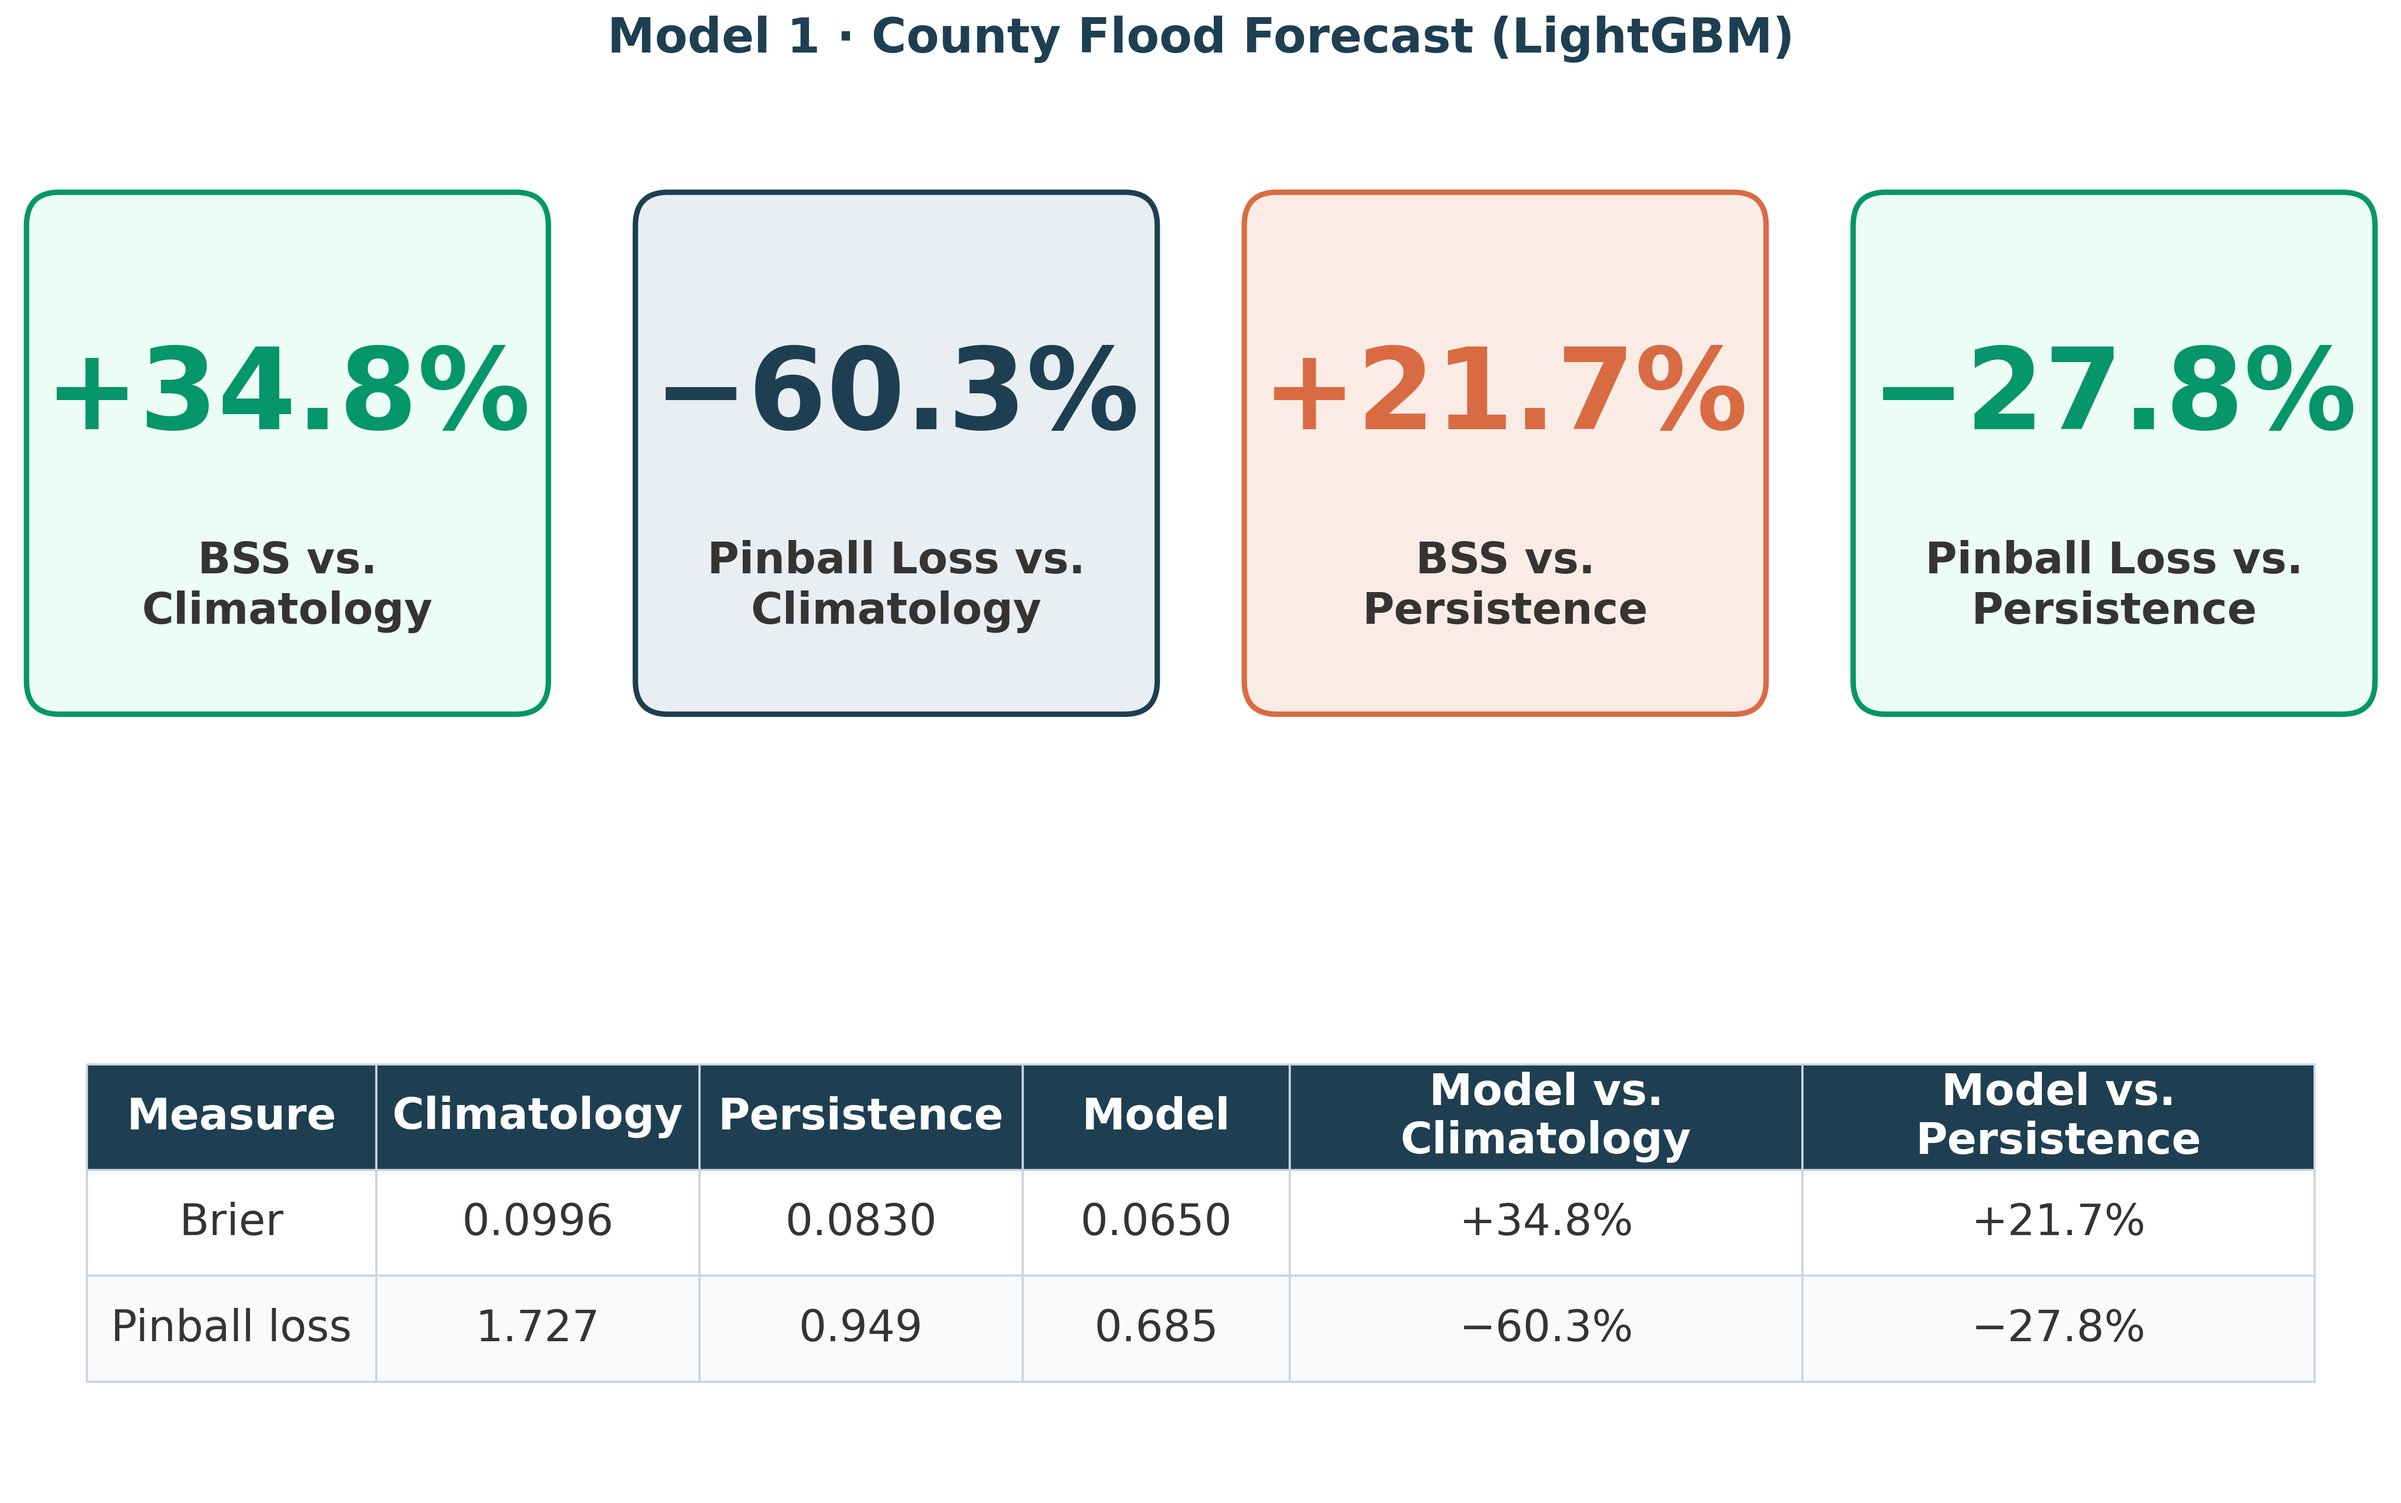
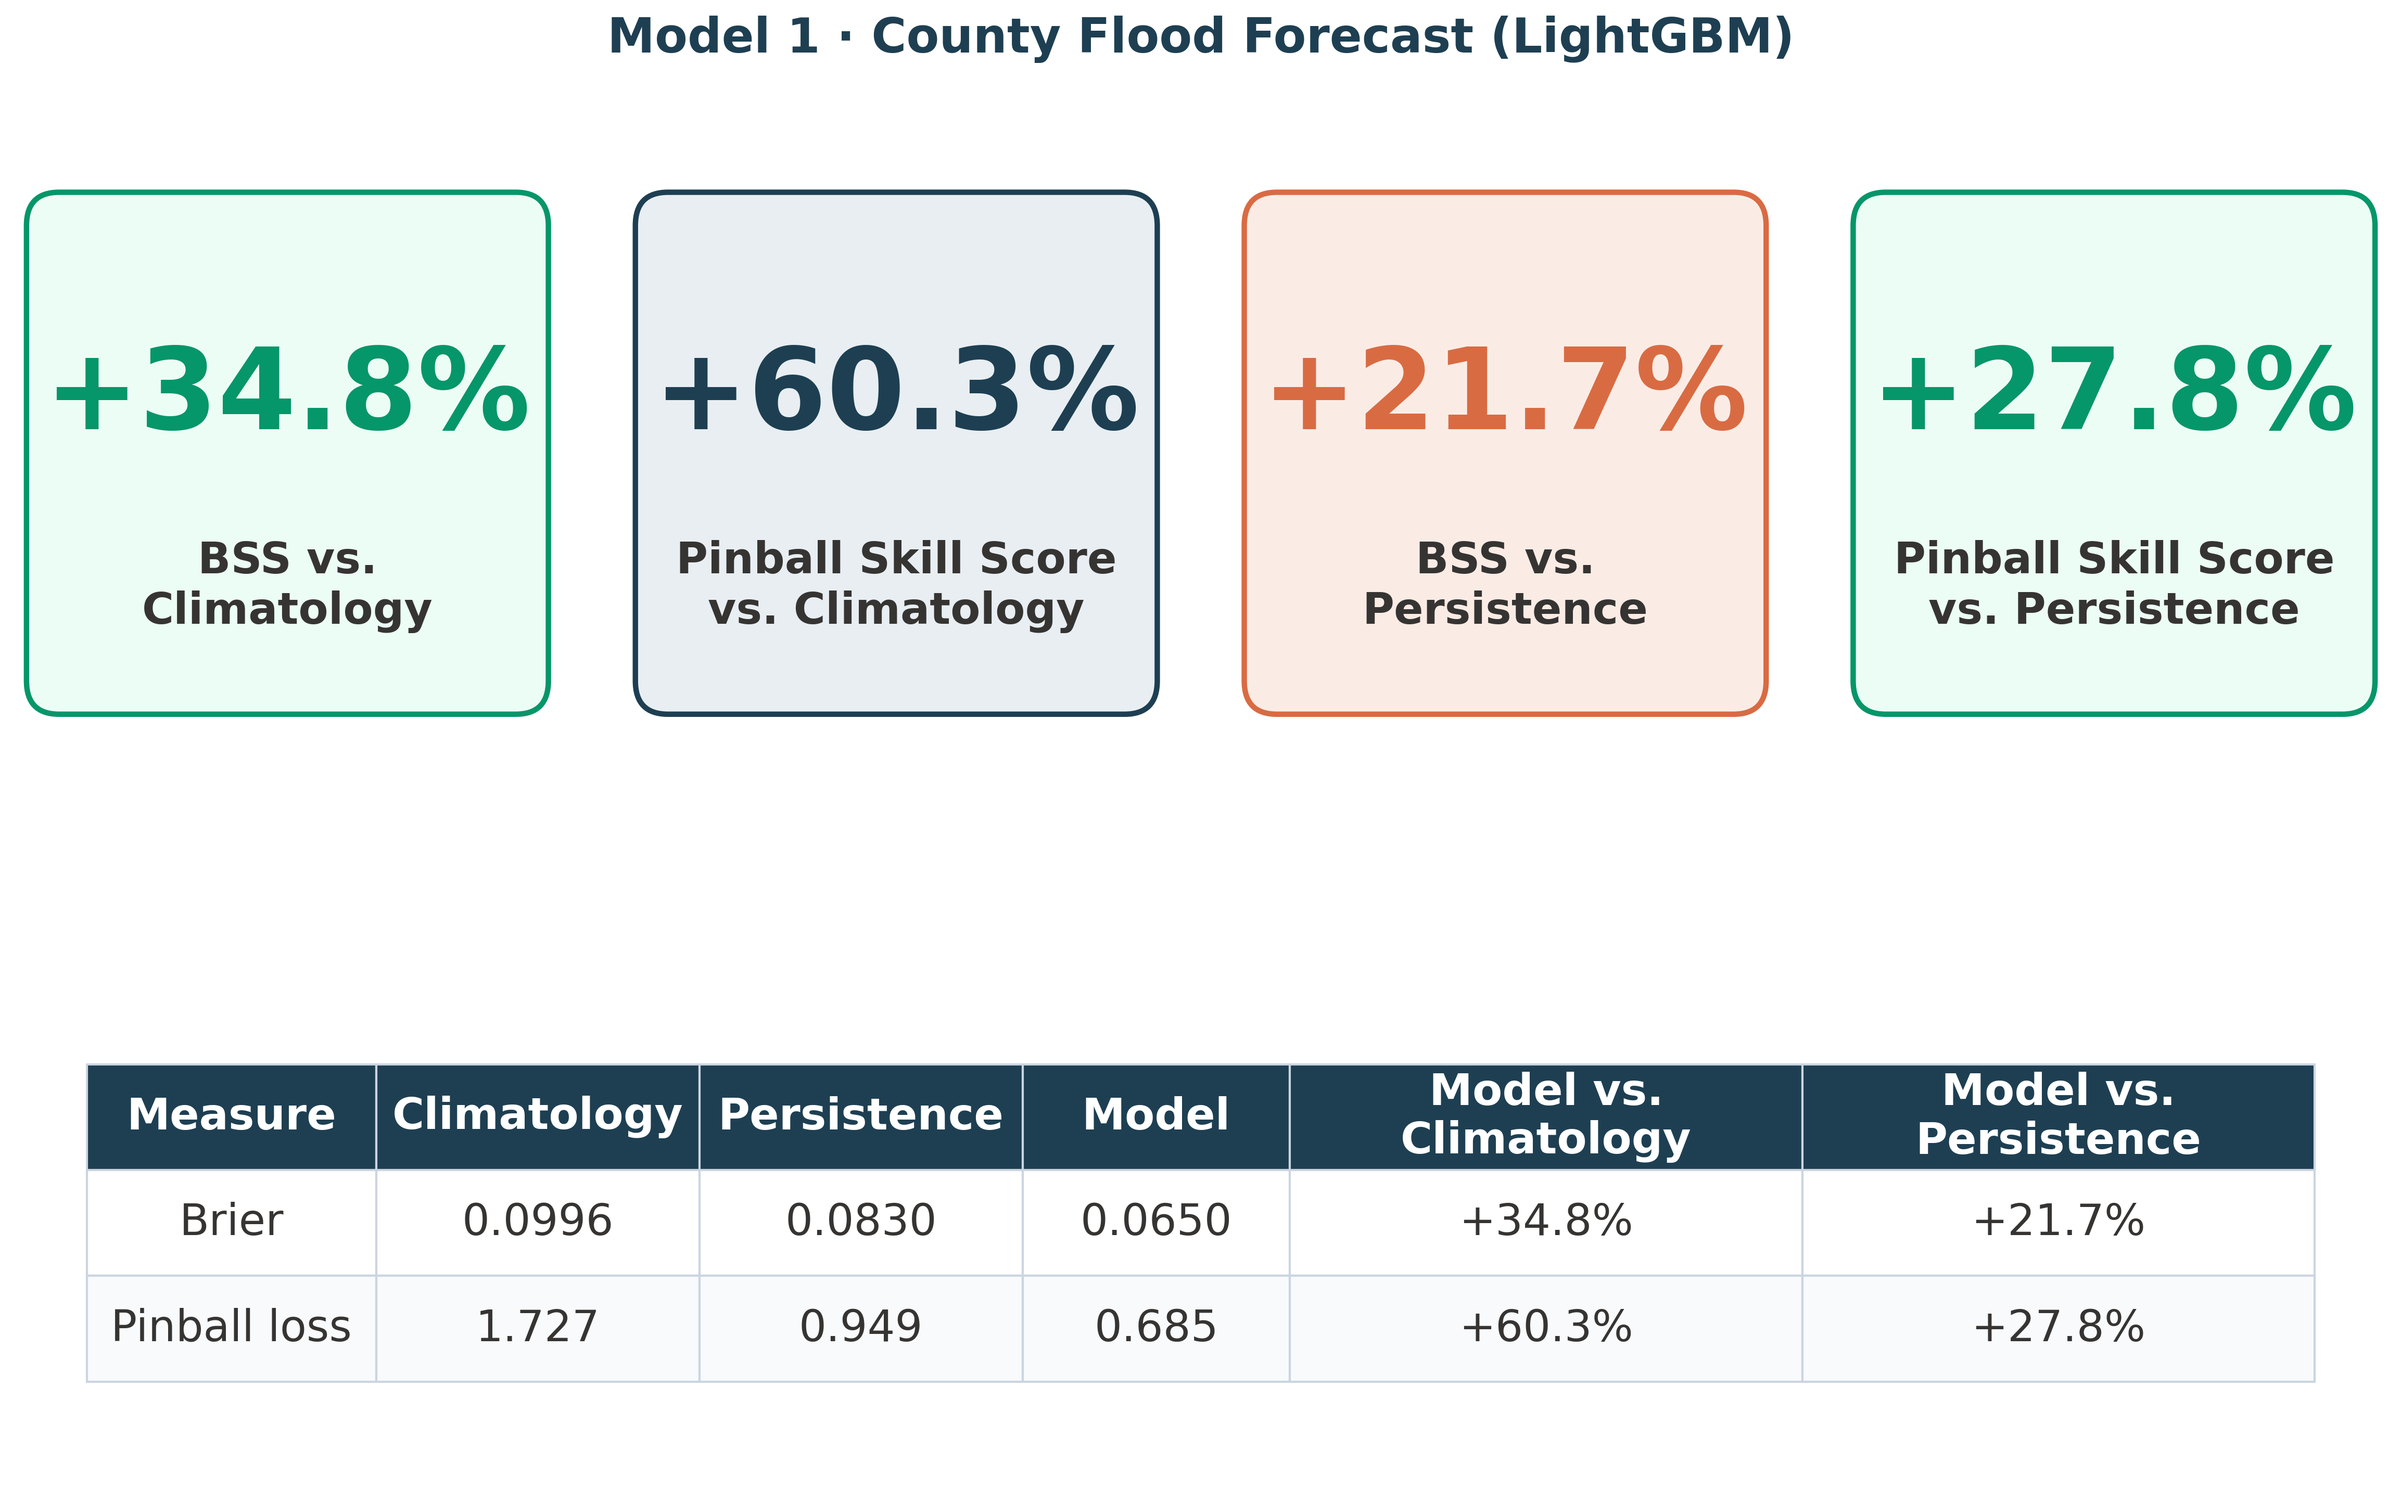
style: pinball values positive, framed as Pinball Skill Score
Pinball percentages now use the identical skill-score logic as the
Brier/BSS boasts: 1 - loss_model / loss_reference.

- vs climatology: 1 - 0.685/1.727 = +60.3%
- vs persistence: 1 - 0.685/0.949 = +27.8%

Cards relabelled 'Pinball Skill Score vs. Climatology/Persistence'
(mirrors BSS = Brier Skill Score); table row stays 'Pinball loss'
for the raw loss values with positive skill percentages in the
Model-vs-reference improvement columns.

diff --git a/generate_model_performance_poster.py b/generate_model_performance_poster.py
@@ -143,12 +143,12 @@ def generate_model1_overview(output_dir: Path) -> tuple[Path, Path]:
 
     draw_stat_card(fig.add_subplot(gs[0, 0]), f"+{bss_clim:.1f}%",
                    "BSS vs.\nClimatology", C_GREEN)
-    draw_stat_card(fig.add_subplot(gs[0, 1]), f"\u2212{pinball_cut:.1f}%",
-                   "Pinball Loss vs.\nClimatology", C_BLUE)
+    draw_stat_card(fig.add_subplot(gs[0, 1]), f"+{pinball_cut:.1f}%",
+                   "Pinball Skill Score\nvs. Climatology", C_BLUE)
     draw_stat_card(fig.add_subplot(gs[0, 2]), f"+{bss_pers:.1f}%",
                    "BSS vs.\nPersistence", C_ORANGE)
-    draw_stat_card(fig.add_subplot(gs[0, 3]), f"\u2212{pinball_cut_pers:.1f}%",
-                   "Pinball Loss vs.\nPersistence", C_GREEN)
+    draw_stat_card(fig.add_subplot(gs[0, 3]), f"+{pinball_cut_pers:.1f}%",
+                   "Pinball Skill Score\nvs. Persistence", C_GREEN)
 
     ax_tbl = fig.add_subplot(gs[1, :])
     add_table_panel(
@@ -158,7 +158,7 @@ def generate_model1_overview(output_dir: Path) -> tuple[Path, Path]:
         rows=[["Brier", f"{clim['brier_score']:.4f}", f"{persist['brier_score']:.4f}",
                f"{lgbm['brier_score']:.4f}", f"+{bss_clim:.1f}%", f"+{bss_pers:.1f}%"],
               ["Pinball loss", f"{clim['mean_pinball_loss']:.3f}", f"{persist['mean_pinball_loss']:.3f}",
-               f"{lgbm['mean_pinball_loss']:.3f}", f"\u2212{pinball_cut:.1f}%", f"\u2212{pinball_cut_pers:.1f}%"]],
+               f"{lgbm['mean_pinball_loss']:.3f}", f"+{pinball_cut:.1f}%", f"+{pinball_cut_pers:.1f}%"]],
         col_widths=[0.13, 0.145, 0.145, 0.12, 0.23, 0.23],
         bbox=[0.03, 0.20, 0.94, 0.60],
     )
